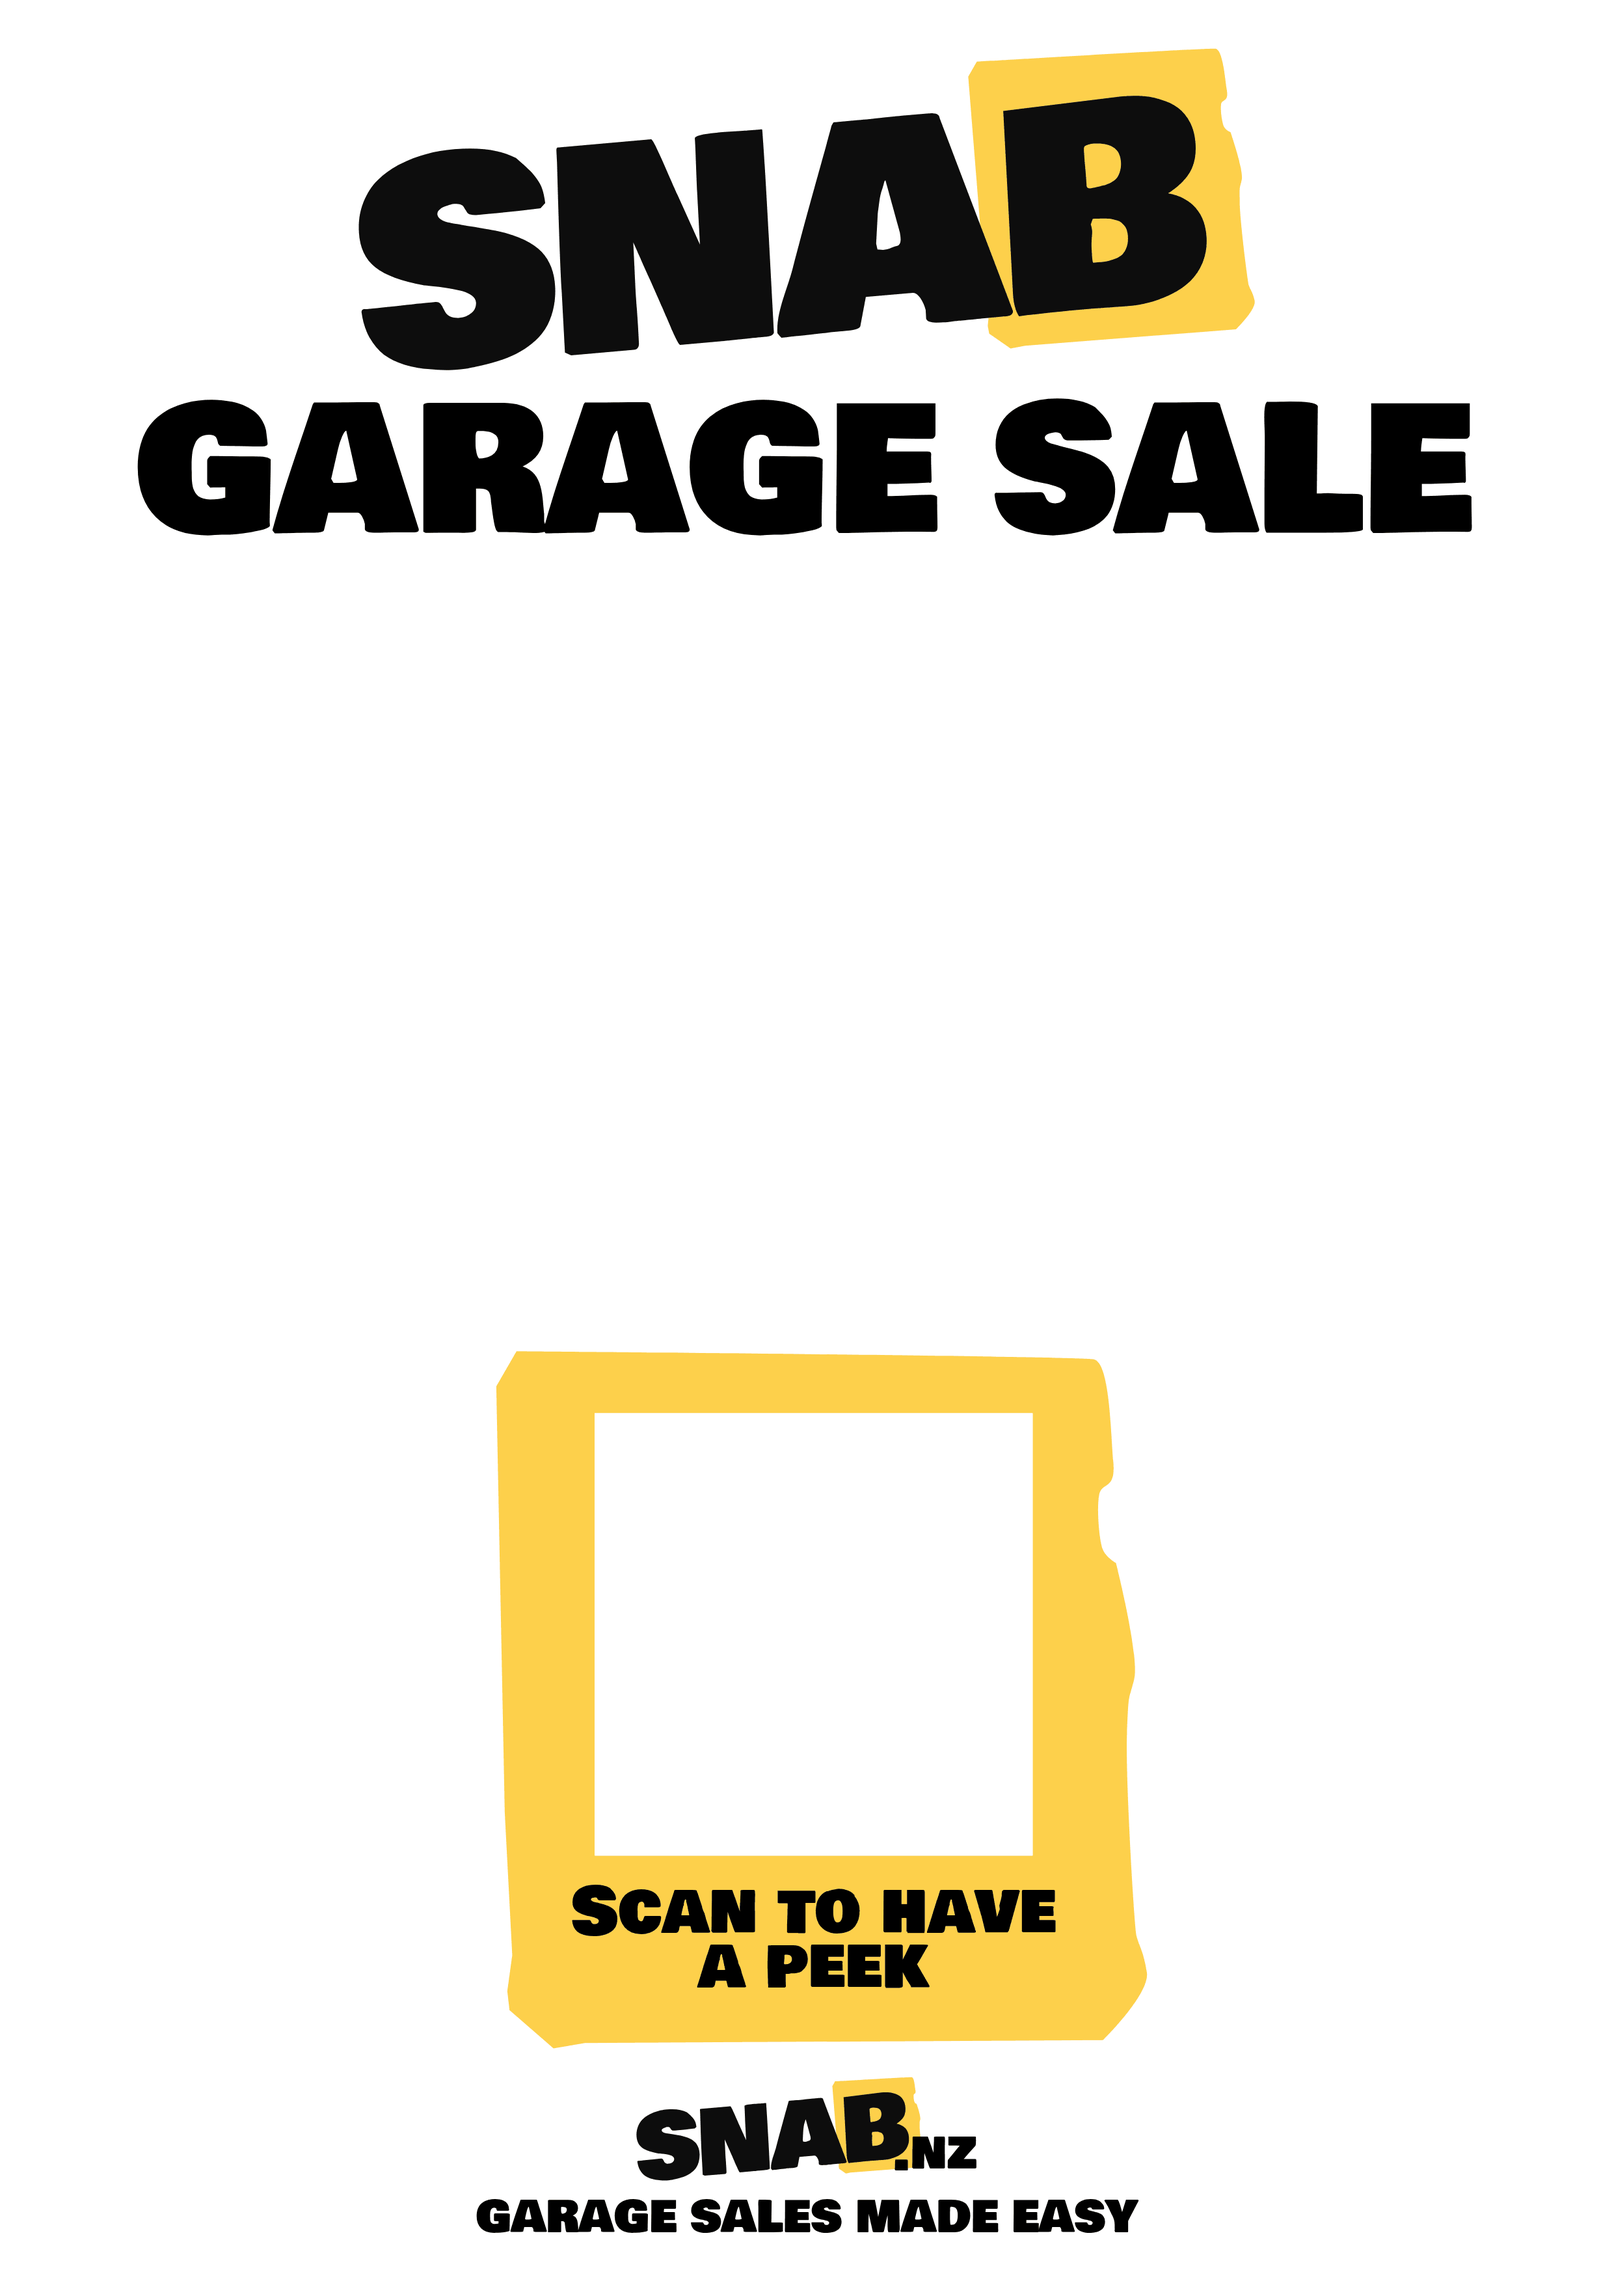
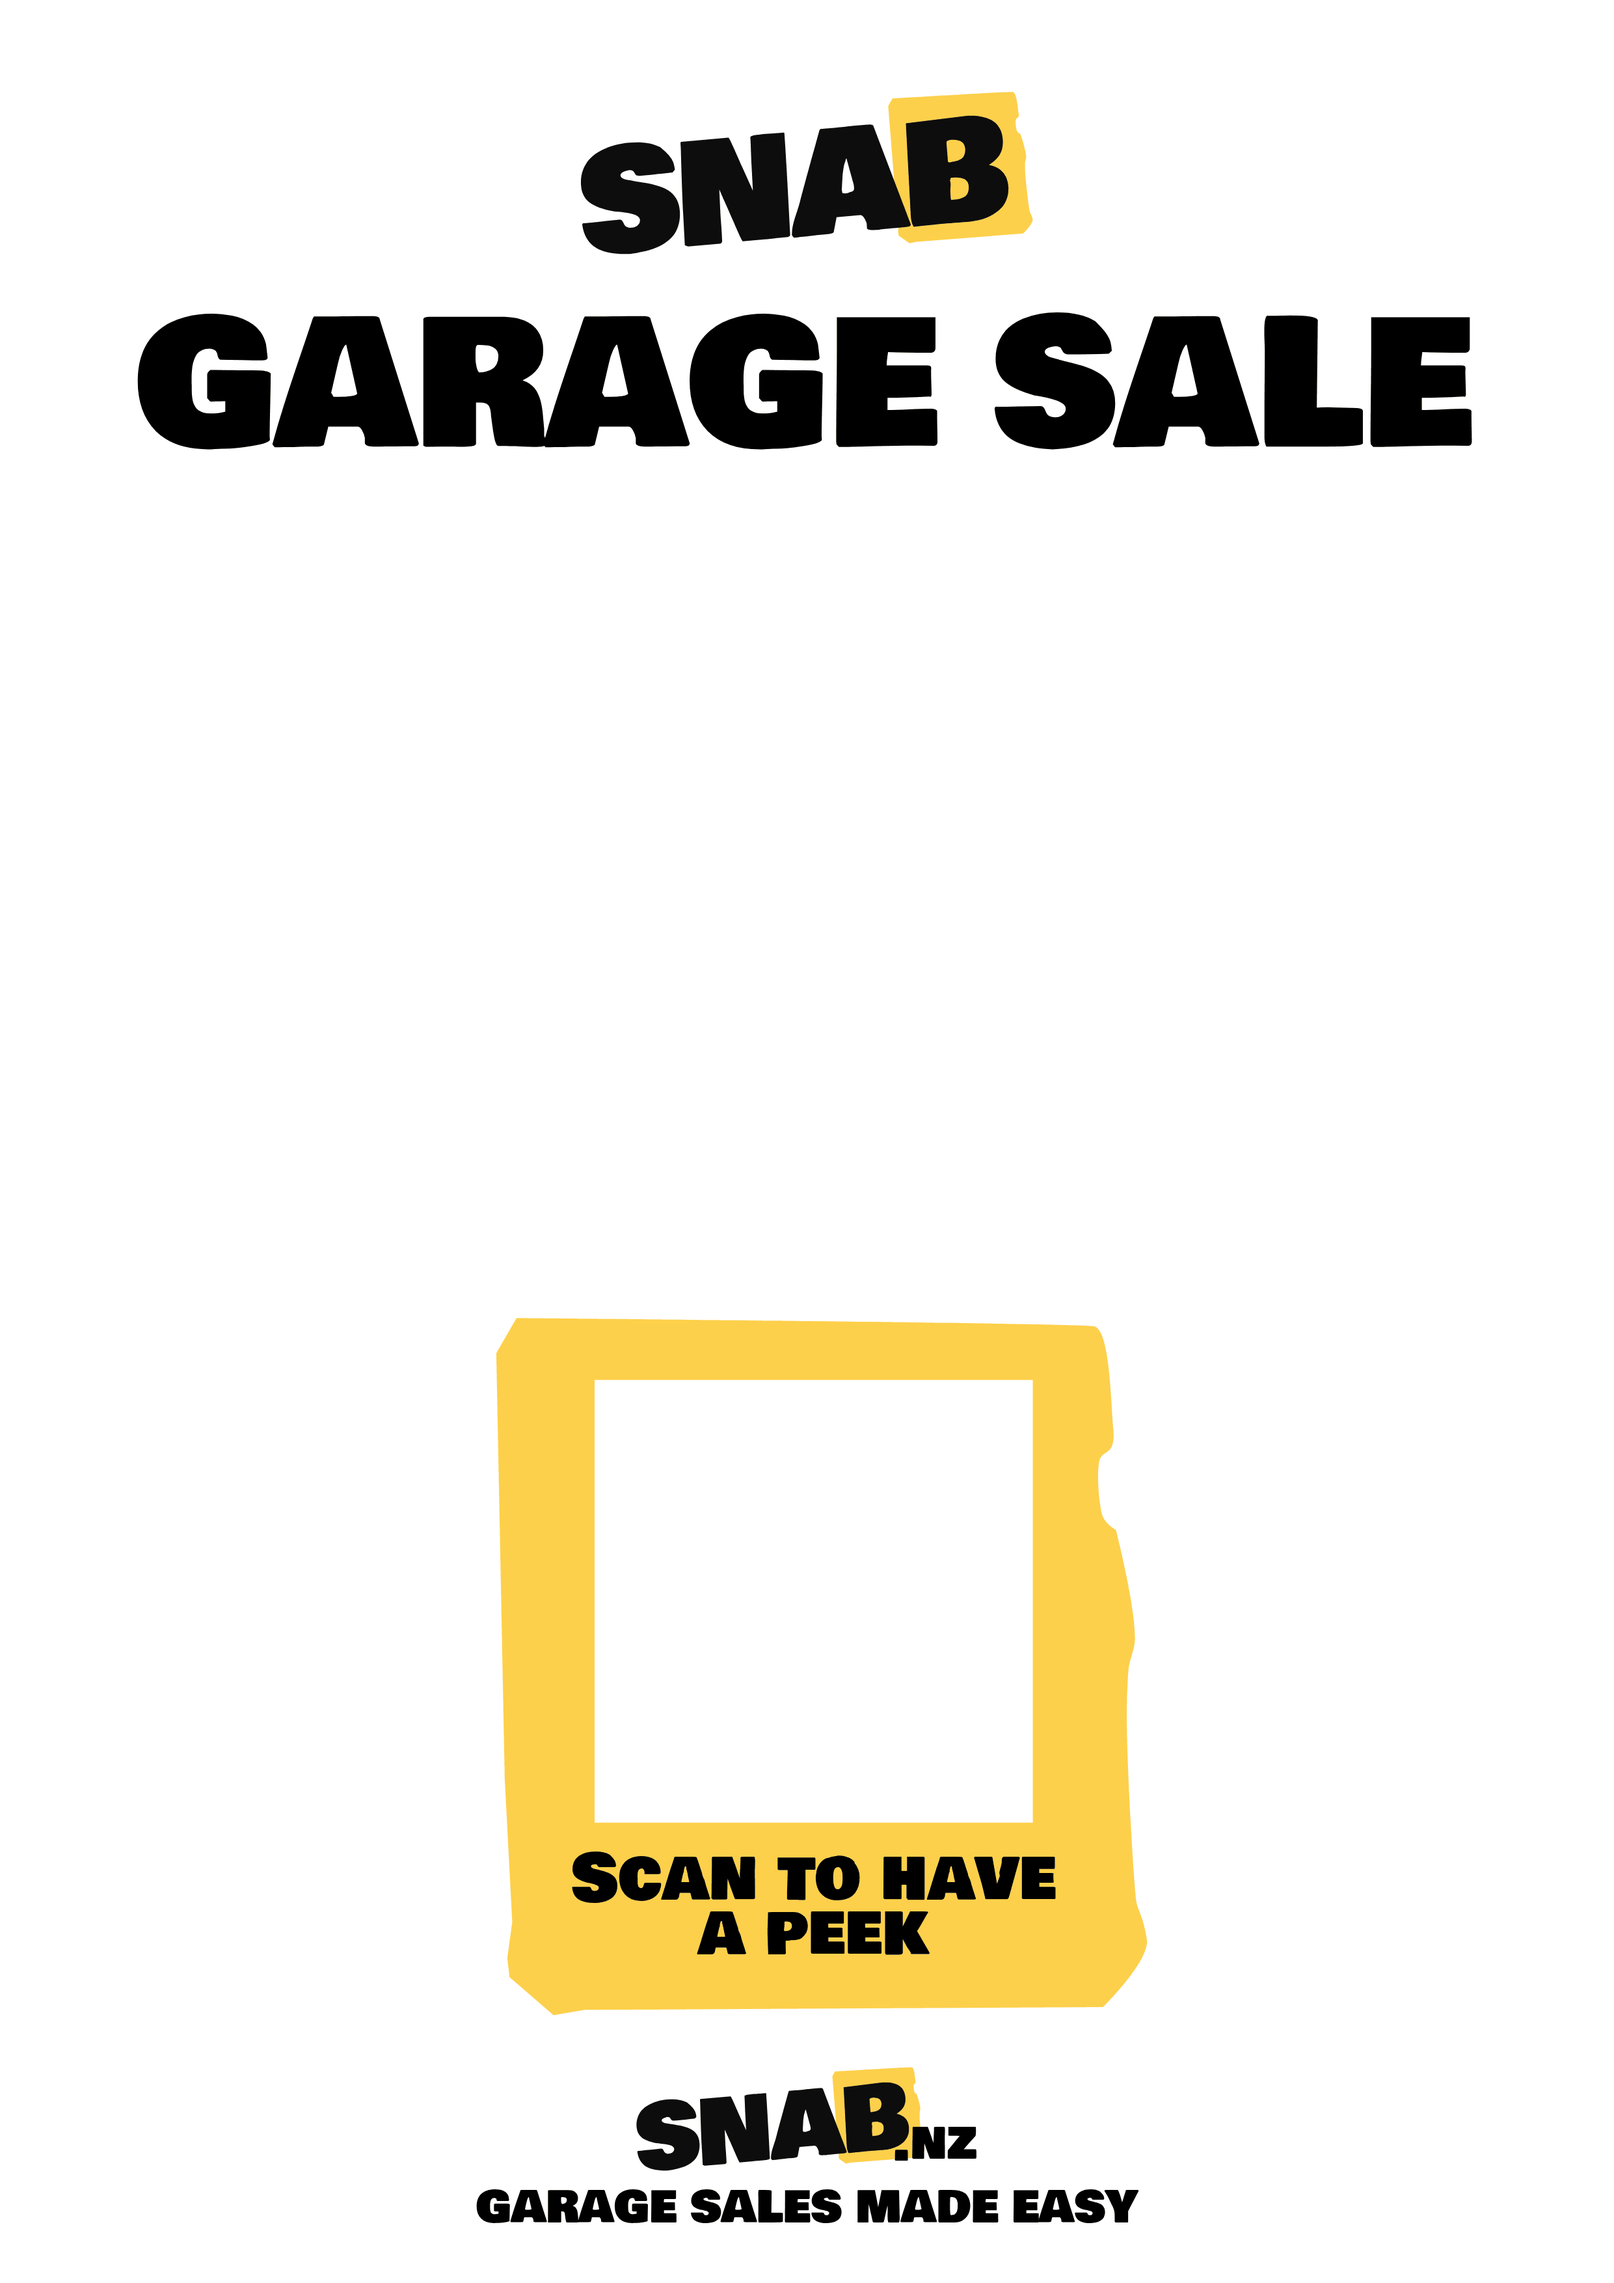
Use Josh's roomier sign background
The smaller SNAB logo frees about 10 mm above the sale details, and the QR
square moved up to match.

Claude-Session: https://claude.ai/code/session_01CxFysFKJ2bDGggdENjzvHC

diff --git a/lib/mock/sign.ts b/lib/mock/sign.ts
@@ -9,8 +9,8 @@ export const SIGN_FONT = "BowlbyOneSC";
 const CAP = 1520 / 2048; // cap height of Bowlby One SC, as a share of the font size
 const PT = 25.4 / 72;
 const LEFT = 15, WIDTH = 180, CENTRE = 105;
-const ZONE_TOP = 74, ZONE_BOTTOM = 173; // between "GARAGE SALE" and the yellow QR panel
-const QR = { x: 80.85, y: 187.6, size: 50 }; // centred in the template's white square
+const ZONE_TOP = 64, ZONE_BOTTOM = 168; // between "GARAGE SALE" and the yellow QR panel
+const QR = { x: 80.85, y: 183.3, size: 50 }; // centred in the template's white square
 const BASE = { title: 30, dayTitle: 24, date: 20, address: 36, more: 14 }; // pt, from the design
 const DAY_BOOST: Record<number, number> = { 1: 1.6, 2: 1.3 };
 const LEADING = 1.1, DAY_LEADING = 1.25; // baseline-to-baseline, as a multiple of the font size

diff --git a/tests/mock-flow.test.ts b/tests/mock-flow.test.ts
@@ -86,7 +86,7 @@ test("sale sign layout keeps every line inside the page and drops glyphs the fon
     draft.location = {address:"Flat 2, 145A Te Rapa Road, Beerescourt",town:"Hamilton",reveal:"now"};
     draft.days = Array.from({length:count}, (_, i) => ({date:`2026-09-${String(20+i).padStart(2,"0")}`,starts:"08:00",finishes:"13:00"}));
     const { lines } = layoutSaleSign(toBuyerSale(draft,[]), measure);
-    for (const l of lines) { assert.ok(l.y > 70 && l.y < 175, `${l.text} at ${l.y}`); assert.ok(measure(l.text, l.size) <= 181, l.text); }
+    for (const l of lines) { assert.ok(l.y > 60 && l.y < 171, `${l.text} at ${l.y}`); assert.ok(measure(l.text, l.size) <= 181, l.text); }
   }
   assert.equal(signText("Kirikiriroa Whānau Sale 🎉"), "Kirikiriroa Whanau Sale");
 });
